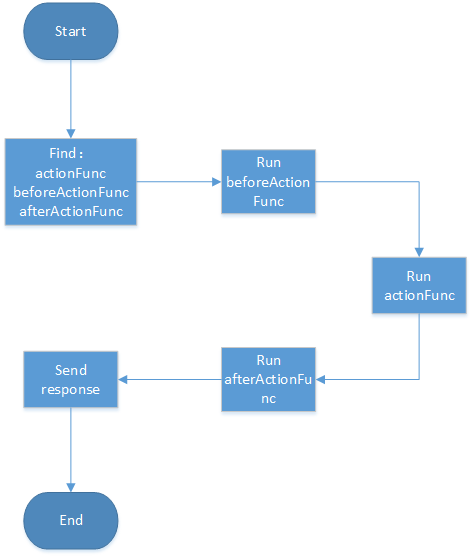
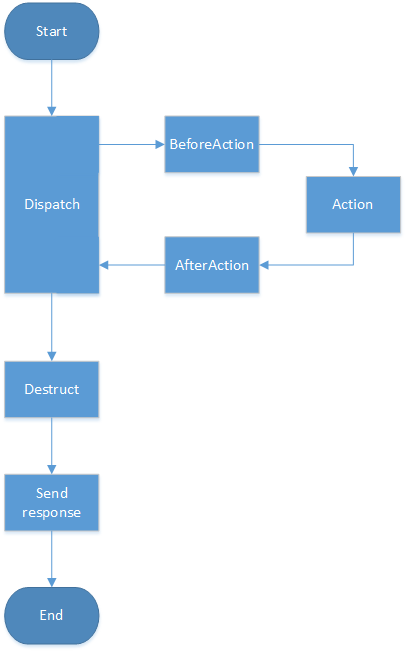
update controller and log formater

diff --git a/source/pkg/http/controller.rst b/source/pkg/http/controller.rst
@@ -78,8 +78,8 @@ import
 
 ::
 
-    func (this *Controller) AddExactMatchAction(pattern string, af ActionFunc)  //request_uri严格匹配
-    func (this *Controller) AddRegexMatchAction(pattern string, af ActionFunc)  //request_uri正则匹配
+        func (this *Controller) AddExactMatchAction(key string, f ActionFunc) *Controller  //request_uri严格匹配
+        func (this *Controller) AddRegexMatchAction(pattern string, f ActionFunc) *Controller  //request_uri正则匹配
 
 路由查找action说明：
 
@@ -102,6 +102,20 @@ import
 ::
 
     func (this *Controller) SetMissActionFunc(jf JumpFunc)
+
+添加destructFunc
+^^^^^^^^^^^^^^^^^^^
+
+destructFunc会在dispatch后执行，作为资源销毁、释放阶段，每个请求中会造成内存泄漏的临时资源可以在这里释放。
+
+和afterAction的不同如下：
+
+1. 例如redirect302这种跳过dispatch阶段的行为，依旧可以通过这个阶段释放资源。
+#. 无法在这个阶段修改response。
+
+::
+
+    func (this *Controller) AddDestructFunc(pattern string, f DestructFunc) *Controller
 
 直接返回302重定向
 ^^^^^^^^^^^^^^^^^^^^^^^^^^^^^^^^^

diff --git a/source/pkg/log/formater.rst b/source/pkg/log/formater.rst
@@ -45,13 +45,13 @@ SimpleFormater::
     type SimpleFormater struct {
     }
 
-此结构添加level信息，并添加换行。
+此结构添加level和时间信息，并添加换行。
 
 web格式化
 **********
 
 ::
 
-    func NewWebFormater(logId []byte) *WebFormater
+    func NewWebFormater(logId, ip []byte) *WebFormater
 
-此结构格式化web请求时记录的log，添加logId、请求时间及换行符。
+此结构格式化web请求时记录的log，添加logId、ip、请求时间及换行符。
